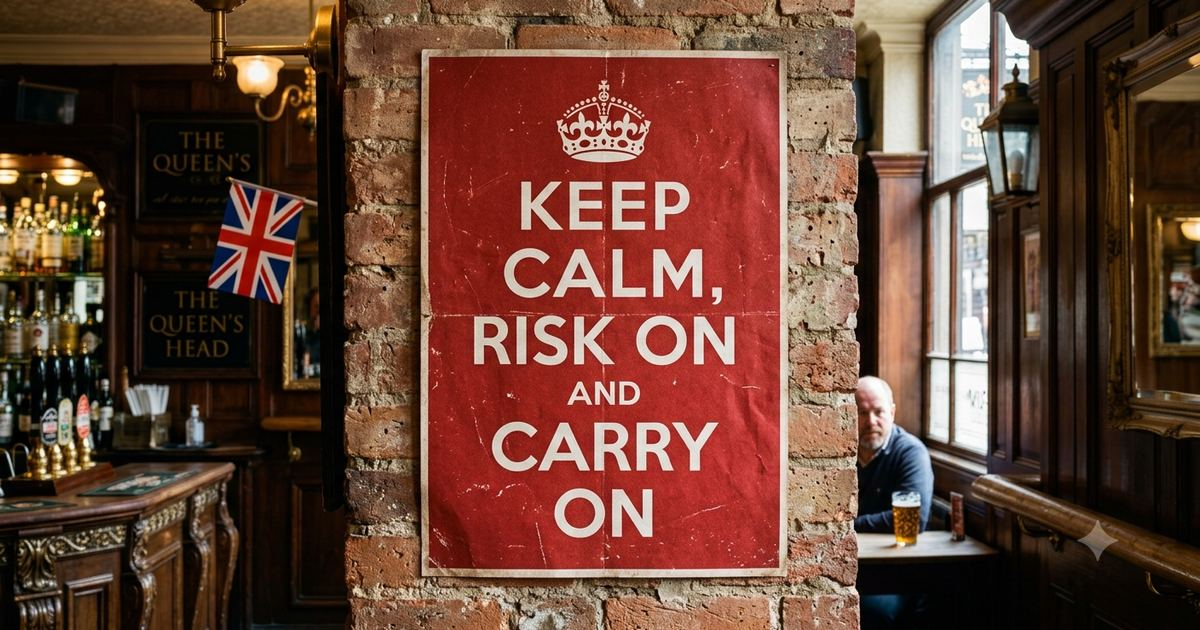
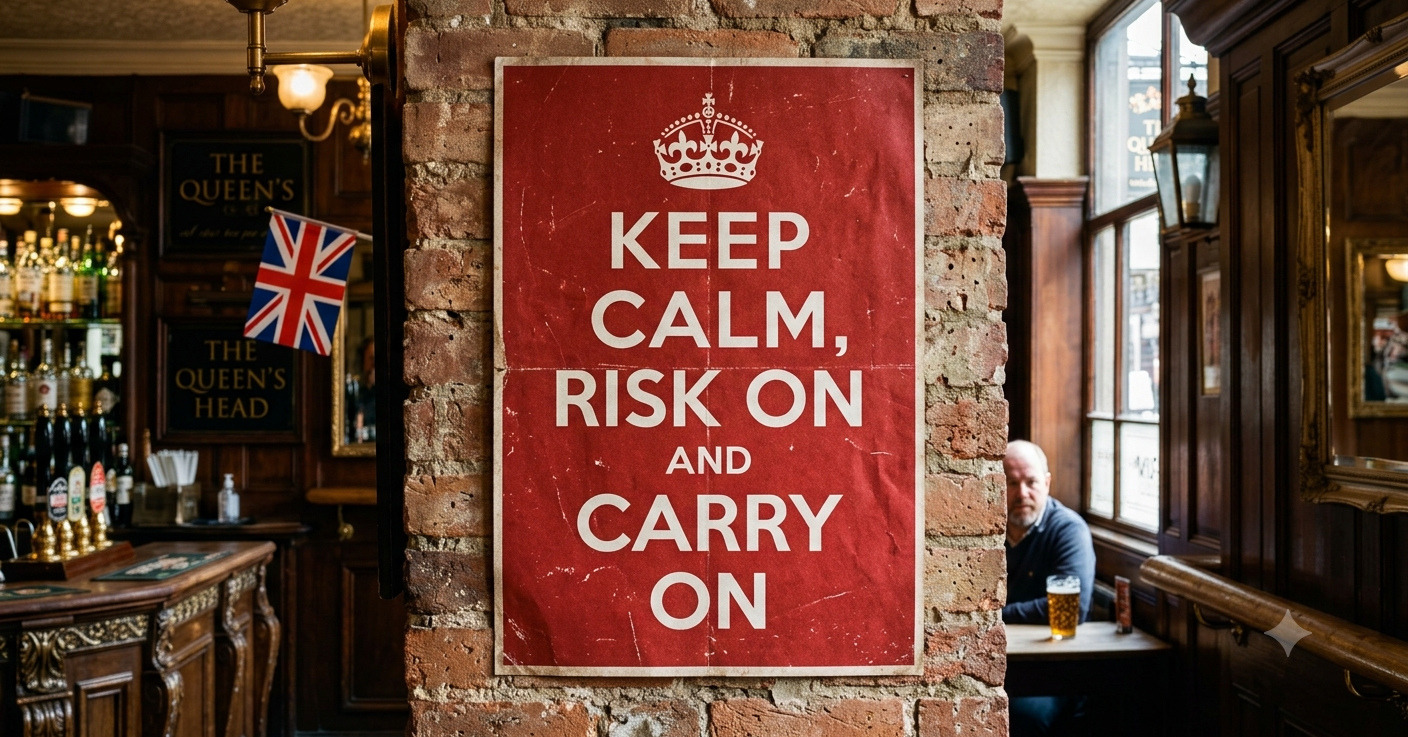
card at native resolution

diff --git a/stopped-worrying/index.html b/stopped-worrying/index.html
@@ -10,8 +10,8 @@
 <meta property="og:image" content="https://jags-gorla.github.io/essays/stopped-worrying/card.jpg">
 <meta property="og:image:secure_url" content="https://jags-gorla.github.io/essays/stopped-worrying/card.jpg">
 <meta property="og:image:type" content="image/jpeg">
-<meta property="og:image:width" content="1200">
-<meta property="og:image:height" content="630">
+<meta property="og:image:width" content="1408">
+<meta property="og:image:height" content="737">
 <meta property="og:image:alt" content="A wartime-style poster reading KEEP CALM, RISK ON AND CARRY ON, pasted on a brick wall in a British pub.">
 <meta property="article:published_time" content="2026-08-09">
 <meta property="og:site_name" content="Jagadeesh Gorla">
